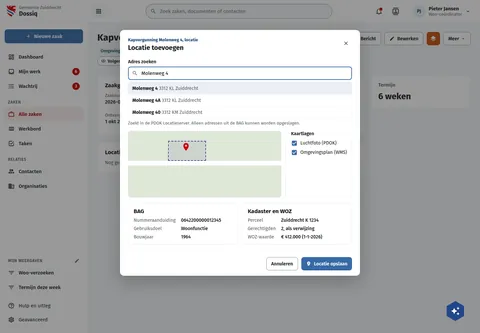
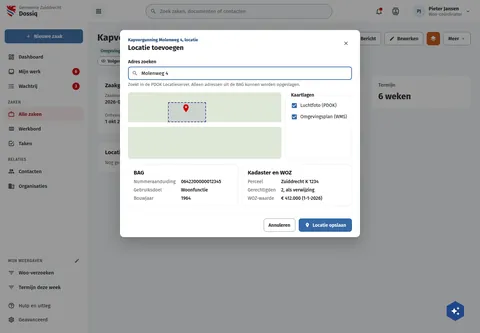
fix(screens): DqZaakLocatie draws the dialog with the address chosen
r32: once an address is picked from the PDOK list the list closes, so
the board's open list put everything under it 95px lower than live. The
board draws the chosen state: no open list, the search field named by
its label, Locatie opslaan at the footer's 18px with its icon (as
DqOverdragen and the dialog look), the layer rows 3px taller as the
Nextcloud checkbox row.

Assisted-by: ClaudeCode:claude-opus-5-5

Changed region(s): [[0.25, 0.6306, 0.75, 0.8408], [0.25, 0.2402, 0.7188, 0.4805], [0.25, 0.4204, 0.6875, 0.6006]]

diff --git a/preview/screens/boards/DqZaakLocatie.html b/preview/screens/boards/DqZaakLocatie.html
@@ -154,8 +154,8 @@ a{color:var(--sc-primary, #3669a5)}a:hover{color:var(--sc-primary-deep, #234a78)
         <div style="display: flex; flex-direction: column; gap: 4px"><span style="font-size: 13px; font-weight: 700; color: var(--sc-primary-deep, #234a78)">Kapvergunning Molenweg 4, locatie</span><h2 id="dlg-titel" style="margin: 0; font-size: 20px; font-weight: 700">Locatie toevoegen</h2></div>
         <button type="button" aria-label="Sluiten" style="width: 36px; height: 36px; border: 0; border-radius: 18px; background: transparent; color: var(--sc-work-text, #3d4047); display: inline-flex; align-items: center; justify-content: center"><svg width="18" height="18" viewbox="0 0 24 24" fill="currentColor" aria-hidden="true"><path d="M19,6.41L17.59,5L12,10.59L6.41,5L5,6.41L10.59,12L5,17.59L6.41,19L12,13.41L17.59,19L19,17.59L13.41,12L19,6.41Z"></path></svg></button>
       </div>
-      <div style="padding: 18px 24px 20px; display: flex; flex-direction: column; gap: 16px"><div style="display: flex; flex-direction: column; gap: 6px"><label style="font-size: 14px; font-weight: 600">Adres zoeken</label><div style="position: relative"><input type="search" value="Molenweg 4" style="box-sizing: border-box; width: 100%; height: 40px; padding: 0 12px 0 38px; border: 2px solid var(--sc-primary, #3669a5); border-radius: 8px; font: 400 15px var(--sc-font, 'Fira Sans'), sans-serif"><svg width="18" height="18" viewbox="0 0 24 24" fill="#5e6168" style="position: absolute; left: 12px; top: 11px;fill:var(--sc-work-muted, #5e6168)"><path d="M9.5,3A6.5,6.5 0 0,1 16,9.5C16,11.11 15.41,12.59 14.44,13.73L14.71,14H15.5L20.5,19L19,20.5L14,15.5V14.71L13.73,14.44C12.59,15.41 11.11,16 9.5,16A6.5,6.5 0 0,1 3,9.5A6.5,6.5 0 0,1 9.5,3M9.5,5C7,5 5,7 5,9.5C5,12 7,14 9.5,14C12,14 14,12 14,9.5C14,7 12,5 9.5,5Z"></path></svg></div><ul role="listbox" style="margin: 0; padding: 0; list-style: none; border: 1px solid var(--sc-work-line, #e4e6ea); border-radius: 8px; overflow: hidden"><li style="padding: 9px 12px; border-top: 1px solid var(--sc-work-soft, #eef0f3); background: var(--sc-primary-light, #eaf0f7); font-size: 14px"><strong>Molenweg 4</strong> <span style="color: var(--sc-work-muted, #5e6168)">3312 KL Zuiddrecht</span></li><li style="padding: 9px 12px; border-top: 1px solid var(--sc-work-soft, #eef0f3);  font-size: 14px"><strong>Molenweg 4A</strong> <span style="color: var(--sc-work-muted, #5e6168)">3312 KL Zuiddrecht</span></li><li style="padding: 9px 12px; border-top: 1px solid var(--sc-work-soft, #eef0f3);  font-size: 14px"><strong>Molenweg 40</strong> <span style="color: var(--sc-work-muted, #5e6168)">3312 KM Zuiddrecht</span></li></ul><span style="font-size: 13px; color: var(--sc-work-muted, #5e6168)">Zoekt in de PDOK Locatieserver. Alleen adressen uit de BAG kunnen worden opgeslagen.</span></div><div style="display: grid; grid-template-columns: minmax(0, 1fr) 200px; gap: 12px"><div role="img" aria-label="Kaart met het perceel Molenweg 4 en een pin" style="position: relative; height: 200px; border-radius: 8px; background: #dfe8d8; overflow: hidden"><span style="position: absolute; left: 0; right: 0; top: 90px; height: 14px; background: #ffffff"></span><span style="position: absolute; left: 120px; top: 30px; width: 110px; height: 56px; border: 2px dashed #4a3f8f; background: rgba(74,63,143,0.12)"></span><span style="position: absolute; left: 160px; top: 34px; color: var(--sc-accent, #cc0000)"><svg width="28" height="28" viewbox="0 0 24 24" fill="currentColor" aria-hidden="true"><path d="M12,11.5A2.5,2.5 0 0,1 9.5,9A2.5,2.5 0 0,1 12,6.5A2.5,2.5 0 0,1 14.5,9A2.5,2.5 0 0,1 12,11.5M12,2A7,7 0 0,0 5,9C5,14.25 12,22 12,22C12,22 19,14.25 19,9A7,7 0 0,0 12,2Z"></path></svg></span></div><fieldset style="margin: 0; padding: 10px 12px; border: 1px solid var(--sc-work-line, #e4e6ea); border-radius: 8px; display: flex; flex-direction: column; gap: 8px"><legend style="padding: 0 4px; font-size: 14px; font-weight: 600">Kaartlagen</legend><label style="display: flex; gap: 8px; align-items: center; padding-left: 4px; font-size: 14px; line-height: 1.2"><input type="checkbox" checked style="position: absolute; width: 1px; height: 1px; margin: -1px; overflow: hidden; clip: rect(0 0 0 0); white-space: nowrap; border: 0"><svg width="20" height="20" viewbox="0 0 24 24" fill="#3669a5" aria-hidden="true" style="fill:var(--sc-primary, #3669a5)"><path d="M10,17L5,12L6.41,10.58L10,14.17L17.59,6.58L19,8M19,3H5C3.89,3 3,3.89 3,5V19A2,2 0 0,0 5,21H19A2,2 0 0,0 21,19V5C21,3.89 20.1,3 19,3Z"></path></svg>Luchtfoto (PDOK)</label><label style="display: flex; gap: 8px; align-items: center; padding-left: 4px; font-size: 14px; line-height: 1.2"><input type="checkbox" checked style="position: absolute; width: 1px; height: 1px; margin: -1px; overflow: hidden; clip: rect(0 0 0 0); white-space: nowrap; border: 0"><svg width="20" height="20" viewbox="0 0 24 24" fill="#3669a5" aria-hidden="true" style="fill:var(--sc-primary, #3669a5)"><path d="M10,17L5,12L6.41,10.58L10,14.17L17.59,6.58L19,8M19,3H5C3.89,3 3,3.89 3,5V19A2,2 0 0,0 5,21H19A2,2 0 0,0 21,19V5C21,3.89 20.1,3 19,3Z"></path></svg>Omgevingsplan (WMS)</label></fieldset></div><div style="display: grid; grid-template-columns: repeat(auto-fit, minmax(200px, 1fr)); gap: 12px"><section style="background: #ffffff; border: 1px solid var(--sc-work-line, #e4e6ea); border-radius: 12px; padding: 14px 16px; display: flex; flex-direction: column; gap: 8px"><div style="display: flex; flex-wrap: wrap; justify-content: space-between; align-items: center; gap: 8px 12px"><div style="display: flex; flex-direction: column; gap: 2px"><h2 style="margin: 0; font-size: 17px; font-weight: 700">BAG</h2></div></div><dl style="margin: 0; display: grid; grid-template-columns: max-content 1fr; gap: 8px 16px; font-size: 14px"><dt style="color: var(--sc-work-muted, #5e6168)">Nummeraanduiding</dt><dd style="margin: 0; font-weight: 500">0642200000012345</dd><dt style="color: var(--sc-work-muted, #5e6168)">Gebruiksdoel</dt><dd style="margin: 0; font-weight: 500">Woonfunctie</dd><dt style="color: var(--sc-work-muted, #5e6168)">Bouwjaar</dt><dd style="margin: 0; font-weight: 500">1964</dd></dl></section><section style="background: #ffffff; border: 1px solid var(--sc-work-line, #e4e6ea); border-radius: 12px; padding: 14px 16px; display: flex; flex-direction: column; gap: 8px"><div style="display: flex; flex-wrap: wrap; justify-content: space-between; align-items: center; gap: 8px 12px"><div style="display: flex; flex-direction: column; gap: 2px"><h2 style="margin: 0; font-size: 17px; font-weight: 700">Kadaster en WOZ</h2></div></div><dl style="margin: 0; display: grid; grid-template-columns: max-content 1fr; gap: 8px 16px; font-size: 14px"><dt style="color: var(--sc-work-muted, #5e6168)">Perceel</dt><dd style="margin: 0; font-weight: 500">Zuiddrecht K 1234</dd><dt style="color: var(--sc-work-muted, #5e6168)">Gerechtigden</dt><dd style="margin: 0; font-weight: 500">2, als verwijzing</dd><dt style="color: var(--sc-work-muted, #5e6168)">WOZ-waarde</dt><dd style="margin: 0; font-weight: 500">€ 412.000 (1-1-2026)</dd></dl></section></div></div>
-      <div style="display: flex; justify-content: flex-end; gap: 10px; padding: 16px 24px; border-top: 1px solid var(--sc-work-soft, #eef0f3)"><button type="button" style="display: inline-flex; align-items: center; gap: 8px; height: 40px; padding: 0 14px; border-radius: 8px; font: 600 14px var(--sc-font, 'Fira Sans'), sans-serif; white-space: nowrap; border: 1px solid var(--sc-work-field, #828a95); background: #ffffff; color: var(--sc-work-ink, #1b1c1d);">Annuleren</button><button type="button" style="display: inline-flex; align-items: center; gap: 8px; height: 40px; padding: 0 14px; border-radius: 8px; font: 600 14px var(--sc-font, 'Fira Sans'), sans-serif; white-space: nowrap; border: 0; background: var(--sc-primary, #3669a5); color: #ffffff;"><svg width="16" height="16" viewbox="0 0 24 24" fill="currentColor" aria-hidden="true"><path d="M12,11.5A2.5,2.5 0 0,1 9.5,9A2.5,2.5 0 0,1 12,6.5A2.5,2.5 0 0,1 14.5,9A2.5,2.5 0 0,1 12,11.5M12,2A7,7 0 0,0 5,9C5,14.25 12,22 12,22C12,22 19,14.25 19,9A7,7 0 0,0 12,2Z"></path></svg>Locatie opslaan</button></div>
+      <div style="padding: 18px 24px 20px; display: flex; flex-direction: column; gap: 16px"><div style="display: flex; flex-direction: column; gap: 6px"><label for="loc-zoek" style="font-size: 14px; font-weight: 600">Adres zoeken</label><div style="position: relative"><input id="loc-zoek" type="search" value="Molenweg 4" style="box-sizing: border-box; width: 100%; height: 40px; padding: 0 12px 0 38px; border: 2px solid var(--sc-primary, #3669a5); border-radius: 8px; font: 400 15px var(--sc-font, 'Fira Sans'), sans-serif"><svg width="18" height="18" viewbox="0 0 24 24" fill="#5e6168" style="position: absolute; left: 12px; top: 11px;fill:var(--sc-work-muted, #5e6168)"><path d="M9.5,3A6.5,6.5 0 0,1 16,9.5C16,11.11 15.41,12.59 14.44,13.73L14.71,14H15.5L20.5,19L19,20.5L14,15.5V14.71L13.73,14.44C12.59,15.41 11.11,16 9.5,16A6.5,6.5 0 0,1 3,9.5A6.5,6.5 0 0,1 9.5,3M9.5,5C7,5 5,7 5,9.5C5,12 7,14 9.5,14C12,14 14,12 14,9.5C14,7 12,5 9.5,5Z"></path></svg></div><span style="font-size: 13px; color: var(--sc-work-muted, #5e6168)">Zoekt in de PDOK Locatieserver. Alleen adressen uit de BAG kunnen worden opgeslagen.</span></div><div style="display: grid; grid-template-columns: minmax(0, 1fr) 200px; gap: 12px"><div role="img" aria-label="Kaart met het perceel Molenweg 4 en een pin" style="position: relative; height: 200px; border-radius: 8px; background: #dfe8d8; overflow: hidden"><span style="position: absolute; left: 0; right: 0; top: 90px; height: 14px; background: #ffffff"></span><span style="position: absolute; left: 120px; top: 30px; width: 110px; height: 56px; border: 2px dashed #4a3f8f; background: rgba(74,63,143,0.12)"></span><span style="position: absolute; left: 160px; top: 34px; color: var(--sc-accent, #cc0000)"><svg width="28" height="28" viewbox="0 0 24 24" fill="currentColor" aria-hidden="true"><path d="M12,11.5A2.5,2.5 0 0,1 9.5,9A2.5,2.5 0 0,1 12,6.5A2.5,2.5 0 0,1 14.5,9A2.5,2.5 0 0,1 12,11.5M12,2A7,7 0 0,0 5,9C5,14.25 12,22 12,22C12,22 19,14.25 19,9A7,7 0 0,0 12,2Z"></path></svg></span></div><fieldset style="margin: 0; padding: 10px 12px; border: 1px solid var(--sc-work-line, #e4e6ea); border-radius: 8px; display: flex; flex-direction: column; gap: 8px"><legend style="padding: 0 4px; font-size: 14px; font-weight: 600">Kaartlagen</legend><label style="display: flex; gap: 8px; align-items: center; padding: 3px 0 3px 4px; font-size: 14px; line-height: 1.2"><input type="checkbox" checked style="position: absolute; width: 1px; height: 1px; margin: -1px; overflow: hidden; clip: rect(0 0 0 0); white-space: nowrap; border: 0"><svg width="20" height="20" viewbox="0 0 24 24" fill="#3669a5" aria-hidden="true" style="fill:var(--sc-primary, #3669a5)"><path d="M10,17L5,12L6.41,10.58L10,14.17L17.59,6.58L19,8M19,3H5C3.89,3 3,3.89 3,5V19A2,2 0 0,0 5,21H19A2,2 0 0,0 21,19V5C21,3.89 20.1,3 19,3Z"></path></svg>Luchtfoto (PDOK)</label><label style="display: flex; gap: 8px; align-items: center; padding: 3px 0 3px 4px; font-size: 14px; line-height: 1.2"><input type="checkbox" checked style="position: absolute; width: 1px; height: 1px; margin: -1px; overflow: hidden; clip: rect(0 0 0 0); white-space: nowrap; border: 0"><svg width="20" height="20" viewbox="0 0 24 24" fill="#3669a5" aria-hidden="true" style="fill:var(--sc-primary, #3669a5)"><path d="M10,17L5,12L6.41,10.58L10,14.17L17.59,6.58L19,8M19,3H5C3.89,3 3,3.89 3,5V19A2,2 0 0,0 5,21H19A2,2 0 0,0 21,19V5C21,3.89 20.1,3 19,3Z"></path></svg>Omgevingsplan (WMS)</label></fieldset></div><div style="display: grid; grid-template-columns: repeat(auto-fit, minmax(200px, 1fr)); gap: 12px"><section style="background: #ffffff; border: 1px solid var(--sc-work-line, #e4e6ea); border-radius: 12px; padding: 14px 16px; display: flex; flex-direction: column; gap: 8px"><div style="display: flex; flex-wrap: wrap; justify-content: space-between; align-items: center; gap: 8px 12px"><div style="display: flex; flex-direction: column; gap: 2px"><h2 style="margin: 0; font-size: 17px; font-weight: 700">BAG</h2></div></div><dl style="margin: 0; display: grid; grid-template-columns: max-content 1fr; gap: 8px 16px; font-size: 14px"><dt style="color: var(--sc-work-muted, #5e6168)">Nummeraanduiding</dt><dd style="margin: 0; font-weight: 500">0642200000012345</dd><dt style="color: var(--sc-work-muted, #5e6168)">Gebruiksdoel</dt><dd style="margin: 0; font-weight: 500">Woonfunctie</dd><dt style="color: var(--sc-work-muted, #5e6168)">Bouwjaar</dt><dd style="margin: 0; font-weight: 500">1964</dd></dl></section><section style="background: #ffffff; border: 1px solid var(--sc-work-line, #e4e6ea); border-radius: 12px; padding: 14px 16px; display: flex; flex-direction: column; gap: 8px"><div style="display: flex; flex-wrap: wrap; justify-content: space-between; align-items: center; gap: 8px 12px"><div style="display: flex; flex-direction: column; gap: 2px"><h2 style="margin: 0; font-size: 17px; font-weight: 700">Kadaster en WOZ</h2></div></div><dl style="margin: 0; display: grid; grid-template-columns: max-content 1fr; gap: 8px 16px; font-size: 14px"><dt style="color: var(--sc-work-muted, #5e6168)">Perceel</dt><dd style="margin: 0; font-weight: 500">Zuiddrecht K 1234</dd><dt style="color: var(--sc-work-muted, #5e6168)">Gerechtigden</dt><dd style="margin: 0; font-weight: 500">2, als verwijzing</dd><dt style="color: var(--sc-work-muted, #5e6168)">WOZ-waarde</dt><dd style="margin: 0; font-weight: 500">€ 412.000 (1-1-2026)</dd></dl></section></div></div>
+      <div style="display: flex; justify-content: flex-end; gap: 10px; padding: 16px 24px; border-top: 1px solid var(--sc-work-soft, #eef0f3)"><button type="button" style="display: inline-flex; align-items: center; gap: 8px; height: 40px; padding: 0 14px; border-radius: 8px; font: 600 14px var(--sc-font, 'Fira Sans'), sans-serif; white-space: nowrap; border: 1px solid var(--sc-work-field, #828a95); background: #ffffff; color: var(--sc-work-ink, #1b1c1d);">Annuleren</button><button type="button" style="display: inline-flex; align-items: center; gap: 8px; height: 40px; padding: 0 18px; border-radius: 8px; font: 600 14px var(--sc-font, 'Fira Sans'), sans-serif; white-space: nowrap; border: 0; background: var(--sc-primary, #3669a5); color: #ffffff;"><svg width="16" height="16" viewbox="0 0 24 24" fill="currentColor" aria-hidden="true"><path d="M12,11.5A2.5,2.5 0 0,1 9.5,9A2.5,2.5 0 0,1 12,6.5A2.5,2.5 0 0,1 14.5,9A2.5,2.5 0 0,1 12,11.5M12,2A7,7 0 0,0 5,9C5,14.25 12,22 12,22C12,22 19,14.25 19,9A7,7 0 0,0 12,2Z"></path></svg>Locatie opslaan</button></div>
     </div>
   </div>
 </div>

diff --git a/screens-src/zuiddrecht/DqZaakLocatie.dc.html b/screens-src/zuiddrecht/DqZaakLocatie.dc.html
@@ -36,8 +36,8 @@ a{color:#3669a5}a:hover{color:#234a78}
         <div style="display: flex; flex-direction: column; gap: 4px"><span style="font-size: 13px; font-weight: 700; color: #234a78">Kapvergunning Molenweg 4, locatie</span><h2 id="dlg-titel" style="margin: 0; font-size: 20px; font-weight: 700">Locatie toevoegen</h2></div>
         <button type="button" aria-label="Sluiten" style="width: 36px; height: 36px; border: 0; border-radius: 18px; background: transparent; color: #3d4047; display: inline-flex; align-items: center; justify-content: center"><svg width="18" height="18" viewBox="0 0 24 24" fill="currentColor" aria-hidden="true"><path d="M19,6.41L17.59,5L12,10.59L6.41,5L5,6.41L10.59,12L5,17.59L6.41,19L12,13.41L17.59,19L19,17.59L13.41,12L19,6.41Z"></path></svg></button>
       </div>
-      <div style="padding: 18px 24px 20px; display: flex; flex-direction: column; gap: 16px"><div style="display: flex; flex-direction: column; gap: 6px"><label style="font-size: 14px; font-weight: 600">Adres zoeken</label><div style="position: relative"><input type="search" value="Molenweg 4" style="box-sizing: border-box; width: 100%; height: 40px; padding: 0 12px 0 38px; border: 2px solid #3669a5; border-radius: 8px; font: 400 15px 'Fira Sans', sans-serif"><svg width="18" height="18" viewBox="0 0 24 24" fill="#5e6168" style="position: absolute; left: 12px; top: 11px"><path d="M9.5,3A6.5,6.5 0 0,1 16,9.5C16,11.11 15.41,12.59 14.44,13.73L14.71,14H15.5L20.5,19L19,20.5L14,15.5V14.71L13.73,14.44C12.59,15.41 11.11,16 9.5,16A6.5,6.5 0 0,1 3,9.5A6.5,6.5 0 0,1 9.5,3M9.5,5C7,5 5,7 5,9.5C5,12 7,14 9.5,14C12,14 14,12 14,9.5C14,7 12,5 9.5,5Z"></path></svg></div><ul role="listbox" style="margin: 0; padding: 0; list-style: none; border: 1px solid #e4e6ea; border-radius: 8px; overflow: hidden"><li style="padding: 9px 12px; border-top: 1px solid #eef0f3; background: #eaf0f7; font-size: 14px"><strong>Molenweg 4</strong> <span style="color: #5e6168">3312 KL Zuiddrecht</span></li><li style="padding: 9px 12px; border-top: 1px solid #eef0f3;  font-size: 14px"><strong>Molenweg 4A</strong> <span style="color: #5e6168">3312 KL Zuiddrecht</span></li><li style="padding: 9px 12px; border-top: 1px solid #eef0f3;  font-size: 14px"><strong>Molenweg 40</strong> <span style="color: #5e6168">3312 KM Zuiddrecht</span></li></ul><span style="font-size: 13px; color: #5e6168">Zoekt in de PDOK Locatieserver. Alleen adressen uit de BAG kunnen worden opgeslagen.</span></div><div style="display: grid; grid-template-columns: minmax(0, 1fr) 200px; gap: 12px"><div role="img" aria-label="Kaart met het perceel Molenweg 4 en een pin" style="position: relative; height: 200px; border-radius: 8px; background: #dfe8d8; overflow: hidden"><span style="position: absolute; left: 0; right: 0; top: 90px; height: 14px; background: #ffffff"></span><span style="position: absolute; left: 120px; top: 30px; width: 110px; height: 56px; border: 2px dashed #4a3f8f; background: rgba(74,63,143,0.12)"></span><span style="position: absolute; left: 160px; top: 34px; color: #cc0000"><svg width="28" height="28" viewBox="0 0 24 24" fill="currentColor" aria-hidden="true"><path d="M12,11.5A2.5,2.5 0 0,1 9.5,9A2.5,2.5 0 0,1 12,6.5A2.5,2.5 0 0,1 14.5,9A2.5,2.5 0 0,1 12,11.5M12,2A7,7 0 0,0 5,9C5,14.25 12,22 12,22C12,22 19,14.25 19,9A7,7 0 0,0 12,2Z"></path></svg></span></div><fieldset style="margin: 0; padding: 10px 12px; border: 1px solid #e4e6ea; border-radius: 8px; display: flex; flex-direction: column; gap: 8px"><legend style="padding: 0 4px; font-size: 14px; font-weight: 600">Kaartlagen</legend><label style="display: flex; gap: 8px; align-items: center; padding-left: 4px; font-size: 14px; line-height: 1.2"><input type="checkbox" checked style="position: absolute; width: 1px; height: 1px; margin: -1px; overflow: hidden; clip: rect(0 0 0 0); white-space: nowrap; border: 0"><svg width="20" height="20" viewBox="0 0 24 24" fill="#3669a5" aria-hidden="true"><path d="M10,17L5,12L6.41,10.58L10,14.17L17.59,6.58L19,8M19,3H5C3.89,3 3,3.89 3,5V19A2,2 0 0,0 5,21H19A2,2 0 0,0 21,19V5C21,3.89 20.1,3 19,3Z"></path></svg>Luchtfoto (PDOK)</label><label style="display: flex; gap: 8px; align-items: center; padding-left: 4px; font-size: 14px; line-height: 1.2"><input type="checkbox" checked style="position: absolute; width: 1px; height: 1px; margin: -1px; overflow: hidden; clip: rect(0 0 0 0); white-space: nowrap; border: 0"><svg width="20" height="20" viewBox="0 0 24 24" fill="#3669a5" aria-hidden="true"><path d="M10,17L5,12L6.41,10.58L10,14.17L17.59,6.58L19,8M19,3H5C3.89,3 3,3.89 3,5V19A2,2 0 0,0 5,21H19A2,2 0 0,0 21,19V5C21,3.89 20.1,3 19,3Z"></path></svg>Omgevingsplan (WMS)</label></fieldset></div><div style="display: grid; grid-template-columns: repeat(auto-fit, minmax(200px, 1fr)); gap: 12px"><section style="background: #ffffff; border: 1px solid #e4e6ea; border-radius: 12px; padding: 14px 16px; display: flex; flex-direction: column; gap: 8px"><div style="display: flex; flex-wrap: wrap; justify-content: space-between; align-items: center; gap: 8px 12px"><div style="display: flex; flex-direction: column; gap: 2px"><h2 style="margin: 0; font-size: 17px; font-weight: 700">BAG</h2></div></div><dl style="margin: 0; display: grid; grid-template-columns: max-content 1fr; gap: 8px 16px; font-size: 14px"><dt style="color: #5e6168">Nummeraanduiding</dt><dd style="margin: 0; font-weight: 500">0642200000012345</dd><dt style="color: #5e6168">Gebruiksdoel</dt><dd style="margin: 0; font-weight: 500">Woonfunctie</dd><dt style="color: #5e6168">Bouwjaar</dt><dd style="margin: 0; font-weight: 500">1964</dd></dl></section><section style="background: #ffffff; border: 1px solid #e4e6ea; border-radius: 12px; padding: 14px 16px; display: flex; flex-direction: column; gap: 8px"><div style="display: flex; flex-wrap: wrap; justify-content: space-between; align-items: center; gap: 8px 12px"><div style="display: flex; flex-direction: column; gap: 2px"><h2 style="margin: 0; font-size: 17px; font-weight: 700">Kadaster en WOZ</h2></div></div><dl style="margin: 0; display: grid; grid-template-columns: max-content 1fr; gap: 8px 16px; font-size: 14px"><dt style="color: #5e6168">Perceel</dt><dd style="margin: 0; font-weight: 500">Zuiddrecht K 1234</dd><dt style="color: #5e6168">Gerechtigden</dt><dd style="margin: 0; font-weight: 500">2, als verwijzing</dd><dt style="color: #5e6168">WOZ-waarde</dt><dd style="margin: 0; font-weight: 500">€ 412.000 (1-1-2026)</dd></dl></section></div></div>
-      <div style="display: flex; justify-content: flex-end; gap: 10px; padding: 16px 24px; border-top: 1px solid #eef0f3"><button type="button" style="display: inline-flex; align-items: center; gap: 8px; height: 40px; padding: 0 14px; border-radius: 8px; font: 600 14px 'Fira Sans', sans-serif; white-space: nowrap; border: 1px solid #828a95; background: #ffffff; color: #1b1c1d;">Annuleren</button><button type="button" style="display: inline-flex; align-items: center; gap: 8px; height: 40px; padding: 0 14px; border-radius: 8px; font: 600 14px 'Fira Sans', sans-serif; white-space: nowrap; border: 0; background: #3669a5; color: #ffffff;"><svg width="16" height="16" viewBox="0 0 24 24" fill="currentColor" aria-hidden="true"><path d="M12,11.5A2.5,2.5 0 0,1 9.5,9A2.5,2.5 0 0,1 12,6.5A2.5,2.5 0 0,1 14.5,9A2.5,2.5 0 0,1 12,11.5M12,2A7,7 0 0,0 5,9C5,14.25 12,22 12,22C12,22 19,14.25 19,9A7,7 0 0,0 12,2Z"></path></svg>Locatie opslaan</button></div>
+      <div style="padding: 18px 24px 20px; display: flex; flex-direction: column; gap: 16px"><div style="display: flex; flex-direction: column; gap: 6px"><label for="loc-zoek" style="font-size: 14px; font-weight: 600">Adres zoeken</label><div style="position: relative"><input id="loc-zoek" type="search" value="Molenweg 4" style="box-sizing: border-box; width: 100%; height: 40px; padding: 0 12px 0 38px; border: 2px solid #3669a5; border-radius: 8px; font: 400 15px 'Fira Sans', sans-serif"><svg width="18" height="18" viewBox="0 0 24 24" fill="#5e6168" style="position: absolute; left: 12px; top: 11px"><path d="M9.5,3A6.5,6.5 0 0,1 16,9.5C16,11.11 15.41,12.59 14.44,13.73L14.71,14H15.5L20.5,19L19,20.5L14,15.5V14.71L13.73,14.44C12.59,15.41 11.11,16 9.5,16A6.5,6.5 0 0,1 3,9.5A6.5,6.5 0 0,1 9.5,3M9.5,5C7,5 5,7 5,9.5C5,12 7,14 9.5,14C12,14 14,12 14,9.5C14,7 12,5 9.5,5Z"></path></svg></div><span style="font-size: 13px; color: #5e6168">Zoekt in de PDOK Locatieserver. Alleen adressen uit de BAG kunnen worden opgeslagen.</span></div><div style="display: grid; grid-template-columns: minmax(0, 1fr) 200px; gap: 12px"><div role="img" aria-label="Kaart met het perceel Molenweg 4 en een pin" style="position: relative; height: 200px; border-radius: 8px; background: #dfe8d8; overflow: hidden"><span style="position: absolute; left: 0; right: 0; top: 90px; height: 14px; background: #ffffff"></span><span style="position: absolute; left: 120px; top: 30px; width: 110px; height: 56px; border: 2px dashed #4a3f8f; background: rgba(74,63,143,0.12)"></span><span style="position: absolute; left: 160px; top: 34px; color: #cc0000"><svg width="28" height="28" viewBox="0 0 24 24" fill="currentColor" aria-hidden="true"><path d="M12,11.5A2.5,2.5 0 0,1 9.5,9A2.5,2.5 0 0,1 12,6.5A2.5,2.5 0 0,1 14.5,9A2.5,2.5 0 0,1 12,11.5M12,2A7,7 0 0,0 5,9C5,14.25 12,22 12,22C12,22 19,14.25 19,9A7,7 0 0,0 12,2Z"></path></svg></span></div><fieldset style="margin: 0; padding: 10px 12px; border: 1px solid #e4e6ea; border-radius: 8px; display: flex; flex-direction: column; gap: 8px"><legend style="padding: 0 4px; font-size: 14px; font-weight: 600">Kaartlagen</legend><label style="display: flex; gap: 8px; align-items: center; padding: 3px 0 3px 4px; font-size: 14px; line-height: 1.2"><input type="checkbox" checked style="position: absolute; width: 1px; height: 1px; margin: -1px; overflow: hidden; clip: rect(0 0 0 0); white-space: nowrap; border: 0"><svg width="20" height="20" viewBox="0 0 24 24" fill="#3669a5" aria-hidden="true"><path d="M10,17L5,12L6.41,10.58L10,14.17L17.59,6.58L19,8M19,3H5C3.89,3 3,3.89 3,5V19A2,2 0 0,0 5,21H19A2,2 0 0,0 21,19V5C21,3.89 20.1,3 19,3Z"></path></svg>Luchtfoto (PDOK)</label><label style="display: flex; gap: 8px; align-items: center; padding: 3px 0 3px 4px; font-size: 14px; line-height: 1.2"><input type="checkbox" checked style="position: absolute; width: 1px; height: 1px; margin: -1px; overflow: hidden; clip: rect(0 0 0 0); white-space: nowrap; border: 0"><svg width="20" height="20" viewBox="0 0 24 24" fill="#3669a5" aria-hidden="true"><path d="M10,17L5,12L6.41,10.58L10,14.17L17.59,6.58L19,8M19,3H5C3.89,3 3,3.89 3,5V19A2,2 0 0,0 5,21H19A2,2 0 0,0 21,19V5C21,3.89 20.1,3 19,3Z"></path></svg>Omgevingsplan (WMS)</label></fieldset></div><div style="display: grid; grid-template-columns: repeat(auto-fit, minmax(200px, 1fr)); gap: 12px"><section style="background: #ffffff; border: 1px solid #e4e6ea; border-radius: 12px; padding: 14px 16px; display: flex; flex-direction: column; gap: 8px"><div style="display: flex; flex-wrap: wrap; justify-content: space-between; align-items: center; gap: 8px 12px"><div style="display: flex; flex-direction: column; gap: 2px"><h2 style="margin: 0; font-size: 17px; font-weight: 700">BAG</h2></div></div><dl style="margin: 0; display: grid; grid-template-columns: max-content 1fr; gap: 8px 16px; font-size: 14px"><dt style="color: #5e6168">Nummeraanduiding</dt><dd style="margin: 0; font-weight: 500">0642200000012345</dd><dt style="color: #5e6168">Gebruiksdoel</dt><dd style="margin: 0; font-weight: 500">Woonfunctie</dd><dt style="color: #5e6168">Bouwjaar</dt><dd style="margin: 0; font-weight: 500">1964</dd></dl></section><section style="background: #ffffff; border: 1px solid #e4e6ea; border-radius: 12px; padding: 14px 16px; display: flex; flex-direction: column; gap: 8px"><div style="display: flex; flex-wrap: wrap; justify-content: space-between; align-items: center; gap: 8px 12px"><div style="display: flex; flex-direction: column; gap: 2px"><h2 style="margin: 0; font-size: 17px; font-weight: 700">Kadaster en WOZ</h2></div></div><dl style="margin: 0; display: grid; grid-template-columns: max-content 1fr; gap: 8px 16px; font-size: 14px"><dt style="color: #5e6168">Perceel</dt><dd style="margin: 0; font-weight: 500">Zuiddrecht K 1234</dd><dt style="color: #5e6168">Gerechtigden</dt><dd style="margin: 0; font-weight: 500">2, als verwijzing</dd><dt style="color: #5e6168">WOZ-waarde</dt><dd style="margin: 0; font-weight: 500">€ 412.000 (1-1-2026)</dd></dl></section></div></div>
+      <div style="display: flex; justify-content: flex-end; gap: 10px; padding: 16px 24px; border-top: 1px solid #eef0f3"><button type="button" style="display: inline-flex; align-items: center; gap: 8px; height: 40px; padding: 0 14px; border-radius: 8px; font: 600 14px 'Fira Sans', sans-serif; white-space: nowrap; border: 1px solid #828a95; background: #ffffff; color: #1b1c1d;">Annuleren</button><button type="button" style="display: inline-flex; align-items: center; gap: 8px; height: 40px; padding: 0 18px; border-radius: 8px; font: 600 14px 'Fira Sans', sans-serif; white-space: nowrap; border: 0; background: #3669a5; color: #ffffff;"><svg width="16" height="16" viewBox="0 0 24 24" fill="currentColor" aria-hidden="true"><path d="M12,11.5A2.5,2.5 0 0,1 9.5,9A2.5,2.5 0 0,1 12,6.5A2.5,2.5 0 0,1 14.5,9A2.5,2.5 0 0,1 12,11.5M12,2A7,7 0 0,0 5,9C5,14.25 12,22 12,22C12,22 19,14.25 19,9A7,7 0 0,0 12,2Z"></path></svg>Locatie opslaan</button></div>
     </div>
   </div>
 </div>
